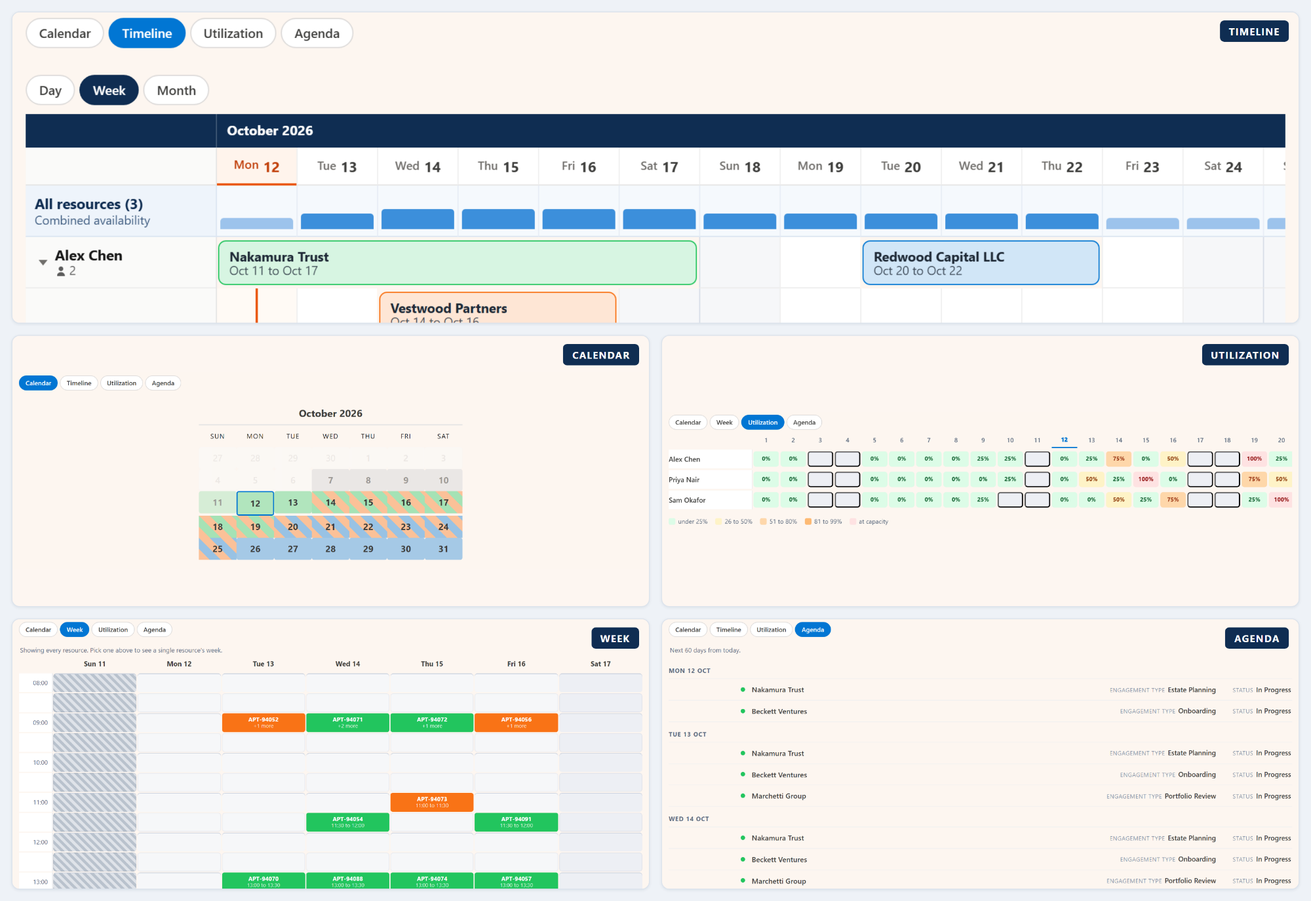
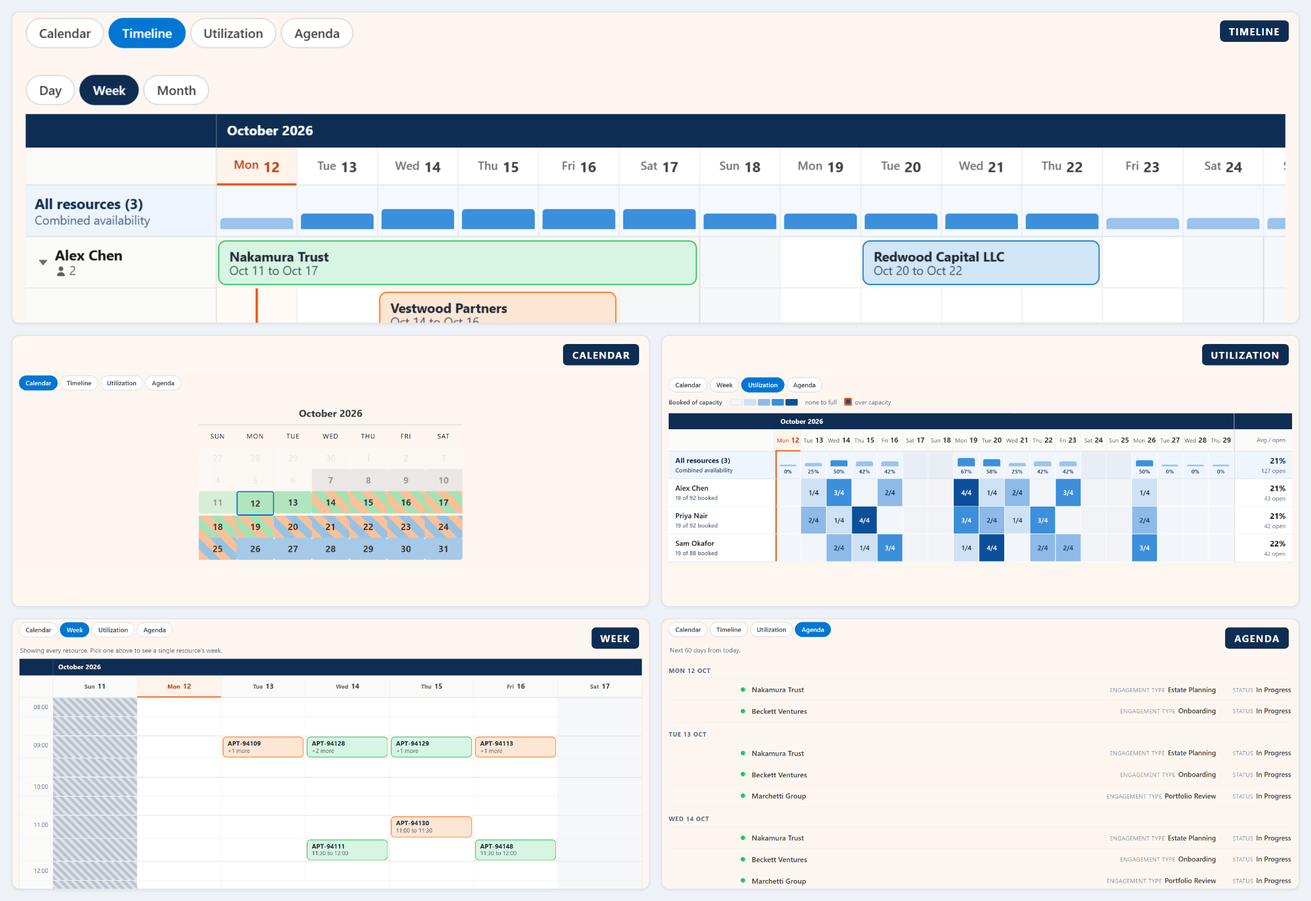
Restyled Week and redesigned Utilization screenshots; image SEO on every page
- New captures from the ACME demo: salesforce-week-view.png and
  salesforce-utilization-heatmap.png replace the old week/utilization images everywhere
- Five-view collage rebuilt with the new Week and Utilization
- Every content image now has alt text, width/height, lazy loading below the fold, a
  sitemap image entry under its page and a JSON-LD ImageObject (51 sitemap entries and
  27 ImageObjects added); blog index thumbnails get their post titles as alt text
- Homepage hero loads first (fetchpriority high) instead of lazily

Changed region(s): [[0.0, 0.7025, 0.496, 1.0], [0.496, 0.3971, 0.992, 0.6415]]

diff --git a/blog/index.html b/blog/index.html
@@ -32,6 +32,19 @@
     <meta name="twitter:title" content="The MultiDatePick Blog">
     <meta name="twitter:description" content="Practical notes on scheduling in Salesforce.">
     <meta name="twitter:image" content="https://multidatepick.com/images/twitter-card.png">
+    <script type="application/ld+json">
+    {"@context": "https://schema.org", "@graph": [
+        {"@type": "ImageObject", "contentUrl": "https://multidatepick.com/images/blog/section-508-government.png", "caption": "An Accessible Salesforce Calendar for Government Teams (article cover image)", "creditText": "MultiDatePick", "creator": {"@type": "Organization", "name": "MultiDatePick"}},
+        {"@type": "ImageObject", "contentUrl": "https://multidatepick.com/images/blog/five-calendar-views.png", "caption": "Five Calendar Views, One Salesforce Component (article cover image)", "creditText": "MultiDatePick", "creator": {"@type": "Organization", "name": "MultiDatePick"}},
+        {"@type": "ImageObject", "contentUrl": "https://multidatepick.com/images/blog/why-no-multi-date-calendar.png", "caption": "Why Salesforce Has No Multi-Date Calendar (article cover image)", "creditText": "MultiDatePick", "creator": {"@type": "Organization", "name": "MultiDatePick"}},
+        {"@type": "ImageObject", "contentUrl": "https://multidatepick.com/images/blog/setup-wizard.png", "caption": "Configuring a Salesforce Calendar Without Writing Code (article cover image)", "creditText": "MultiDatePick", "creator": {"@type": "Organization", "name": "MultiDatePick"}},
+        {"@type": "ImageObject", "contentUrl": "https://multidatepick.com/images/blog/vpat-accessibility.png", "caption": "Salesforce VPAT: What Admins Need to Know (article cover image)", "creditText": "MultiDatePick", "creator": {"@type": "Organization", "name": "MultiDatePick"}},
+        {"@type": "ImageObject", "contentUrl": "https://multidatepick.com/images/blog/prevent-double-booking.png", "caption": "Preventing Double-Booking in Salesforce (article cover image)", "creditText": "MultiDatePick", "creator": {"@type": "Organization", "name": "MultiDatePick"}},
+        {"@type": "ImageObject", "contentUrl": "https://multidatepick.com/images/blog/time-slot-picker.png", "caption": "Building a Calendar Time Slot Picker in Salesforce (article cover image)", "creditText": "MultiDatePick", "creator": {"@type": "Organization", "name": "MultiDatePick"}},
+        {"@type": "ImageObject", "contentUrl": "https://multidatepick.com/images/blog/recurring-patterns.png", "caption": "Recurring Date Patterns in Salesforce (article cover image)", "creditText": "MultiDatePick", "creator": {"@type": "Organization", "name": "MultiDatePick"}},
+        {"@type": "ImageObject", "contentUrl": "https://multidatepick.com/images/blog/multi-date-flow.png", "caption": "How to Let Users Pick Multiple Dates in a Salesforce Screen Flow (article cover image)", "creditText": "MultiDatePick", "creator": {"@type": "Organization", "name": "MultiDatePick"}}
+    ]}
+    </script>
 </head>
 <body>
     <!-- ANNOUNCEMENT BANNER -->
@@ -94,7 +107,7 @@
             <div class="container" style="max-width:820px;">
                 <div class="sc-postlist">
                     <div class="sc-post has-thumb">
-                        <a class="sc-thumb" href="/blog/salesforce-section-508-government-calendar.html" aria-hidden="true" tabindex="-1"><img src="/images/blog/section-508-government.png" alt="" loading="lazy" width="200" height="140"></a>
+                        <a class="sc-thumb" href="/blog/salesforce-section-508-government-calendar.html" aria-hidden="true" tabindex="-1"><img src="/images/blog/section-508-government.png" alt="An Accessible Salesforce Calendar for Government Teams (article cover image)" loading="lazy" width="200" height="140"></a>
                         <div>
                             <h2><a href="/blog/salesforce-section-508-government-calendar.html">An Accessible Salesforce Calendar for Government Teams</a></h2>
                             <p class="sc-meta">11 October 2026</p>
@@ -104,7 +117,7 @@
                     </div>
 
                     <div class="sc-post has-thumb">
-                        <a class="sc-thumb" href="/blog/salesforce-calendar-views.html" aria-hidden="true" tabindex="-1"><img src="/images/blog/five-calendar-views.png" alt="" loading="lazy" width="200" height="140"></a>
+                        <a class="sc-thumb" href="/blog/salesforce-calendar-views.html" aria-hidden="true" tabindex="-1"><img src="/images/blog/five-calendar-views.png" alt="Five Calendar Views, One Salesforce Component (article cover image)" loading="lazy" width="200" height="140"></a>
                         <div>
                             <h2><a href="/blog/salesforce-calendar-views.html">Five Calendar Views, One Salesforce Component</a></h2>
                             <p class="sc-meta">21 August 2026</p>
@@ -114,7 +127,7 @@
                     </div>
 
                     <div class="sc-post has-thumb">
-                        <a class="sc-thumb" href="/blog/why-salesforce-has-no-multi-date-calendar.html" aria-hidden="true" tabindex="-1"><img src="/images/blog/why-no-multi-date-calendar.png" alt="" loading="lazy" width="200" height="140"></a>
+                        <a class="sc-thumb" href="/blog/why-salesforce-has-no-multi-date-calendar.html" aria-hidden="true" tabindex="-1"><img src="/images/blog/why-no-multi-date-calendar.png" alt="Why Salesforce Has No Multi-Date Calendar (article cover image)" loading="lazy" width="200" height="140"></a>
                         <div>
                             <h2><a href="/blog/why-salesforce-has-no-multi-date-calendar.html">Why Salesforce Has No Multi-Date Calendar</a></h2>
                             <p class="sc-meta">20 August 2026</p>
@@ -124,7 +137,7 @@
                     </div>
 
                     <div class="sc-post has-thumb">
-                        <a class="sc-thumb" href="/blog/salesforce-calendar-setup-wizard.html" aria-hidden="true" tabindex="-1"><img src="/images/blog/setup-wizard.png" alt="" loading="lazy" width="200" height="140"></a>
+                        <a class="sc-thumb" href="/blog/salesforce-calendar-setup-wizard.html" aria-hidden="true" tabindex="-1"><img src="/images/blog/setup-wizard.png" alt="Configuring a Salesforce Calendar Without Writing Code (article cover image)" loading="lazy" width="200" height="140"></a>
                         <div>
                             <h2><a href="/blog/salesforce-calendar-setup-wizard.html">Configuring a Salesforce Calendar Without Writing Code</a></h2>
                             <p class="sc-meta">19 August 2026</p>
@@ -135,7 +148,7 @@
 
 
                     <div class="sc-post has-thumb">
-                        <a class="sc-thumb" href="/blog/salesforce-vpat-accessibility.html" aria-hidden="true" tabindex="-1"><img src="/images/blog/vpat-accessibility.png" alt="" loading="lazy" width="200" height="140"></a>
+                        <a class="sc-thumb" href="/blog/salesforce-vpat-accessibility.html" aria-hidden="true" tabindex="-1"><img src="/images/blog/vpat-accessibility.png" alt="Salesforce VPAT: What Admins Need to Know (article cover image)" loading="lazy" width="200" height="140"></a>
                         <div>
                             <h2><a href="/blog/salesforce-vpat-accessibility.html">Salesforce VPAT: What Admins Need to Know</a></h2>
                             <p class="sc-meta">12 August 2026</p>
@@ -145,7 +158,7 @@
                     </div>
 
                     <div class="sc-post has-thumb">
-                        <a class="sc-thumb" href="/blog/prevent-double-booking-in-salesforce.html" aria-hidden="true" tabindex="-1"><img src="/images/blog/prevent-double-booking.png" alt="" loading="lazy" width="200" height="140"></a>
+                        <a class="sc-thumb" href="/blog/prevent-double-booking-in-salesforce.html" aria-hidden="true" tabindex="-1"><img src="/images/blog/prevent-double-booking.png" alt="Preventing Double-Booking in Salesforce (article cover image)" loading="lazy" width="200" height="140"></a>
                         <div>
                             <h2><a href="/blog/prevent-double-booking-in-salesforce.html">Preventing Double-Booking in Salesforce</a></h2>
                             <p class="sc-meta">21 July 2026</p>
@@ -155,7 +168,7 @@
                     </div>
 
                     <div class="sc-post has-thumb">
-                        <a class="sc-thumb" href="/blog/salesforce-calendar-time-slot-picker.html" aria-hidden="true" tabindex="-1"><img src="/images/blog/time-slot-picker.png" alt="" loading="lazy" width="200" height="140"></a>
+                        <a class="sc-thumb" href="/blog/salesforce-calendar-time-slot-picker.html" aria-hidden="true" tabindex="-1"><img src="/images/blog/time-slot-picker.png" alt="Building a Calendar Time Slot Picker in Salesforce (article cover image)" loading="lazy" width="200" height="140"></a>
                         <div>
                             <h2><a href="/blog/salesforce-calendar-time-slot-picker.html">Building a Calendar Time Slot Picker in Salesforce</a></h2>
                             <p class="sc-meta">27 June 2026</p>
@@ -165,7 +178,7 @@
                     </div>
 
                     <div class="sc-post has-thumb">
-                        <a class="sc-thumb" href="/blog/recurring-date-patterns-in-salesforce.html" aria-hidden="true" tabindex="-1"><img src="/images/blog/recurring-patterns.png" alt="" loading="lazy" width="200" height="140"></a>
+                        <a class="sc-thumb" href="/blog/recurring-date-patterns-in-salesforce.html" aria-hidden="true" tabindex="-1"><img src="/images/blog/recurring-patterns.png" alt="Recurring Date Patterns in Salesforce (article cover image)" loading="lazy" width="200" height="140"></a>
                         <div>
                             <h2><a href="/blog/recurring-date-patterns-in-salesforce.html">Recurring Date Patterns in Salesforce</a></h2>
                             <p class="sc-meta">4 June 2026</p>
@@ -175,7 +188,7 @@
                     </div>
 
                     <div class="sc-post has-thumb">
-                        <a class="sc-thumb" href="/blog/multiple-dates-in-a-salesforce-screen-flow.html" aria-hidden="true" tabindex="-1"><img src="/images/blog/multi-date-flow.png" alt="" loading="lazy" width="200" height="140"></a>
+                        <a class="sc-thumb" href="/blog/multiple-dates-in-a-salesforce-screen-flow.html" aria-hidden="true" tabindex="-1"><img src="/images/blog/multi-date-flow.png" alt="How to Let Users Pick Multiple Dates in a Salesforce Screen Flow (article cover image)" loading="lazy" width="200" height="140"></a>
                         <div>
                             <h2><a href="/blog/multiple-dates-in-a-salesforce-screen-flow.html">How to Let Users Pick Multiple Dates in a Salesforce Screen Flow</a></h2>
                             <p class="sc-meta">1 May 2026</p>

diff --git a/index.html b/index.html
@@ -155,7 +155,12 @@
                 {"@type": "ImageObject", "contentUrl": "https://multidatepick.com/images/multidatepick-booking-demo.gif", "caption": "Salesforce resource booking demo: selecting a meeting room, picking dates, and reserving time slots with conflict detection", "creditText": "MultiDatePick", "creator": {"@type": "Organization", "name": "MultiDatePick"}},
                 {"@type": "ImageObject", "contentUrl": "https://multidatepick.com/images/multidatepick-wizard-shape-questions.png", "caption": "MultiDatePick Setup Wizard in Salesforce: Walk me through it shape-picker page showing all three yes/no questions with answer cards containing mini data-shape diagrams", "creditText": "MultiDatePick", "creator": {"@type": "Organization", "name": "MultiDatePick"}},
                 {"@type": "ImageObject", "contentUrl": "https://multidatepick.com/images/multidatepick-wizard-live-preview.png", "caption": "MultiDatePick Setup Wizard in Salesforce with the Live Preview pane showing a working calendar below the component-type selector", "creditText": "MultiDatePick", "creator": {"@type": "Organization", "name": "MultiDatePick"}},
-                {"@type": "ImageObject", "contentUrl": "https://multidatepick.com/images/views/salesforce-resource-timeline-view.png", "caption": "MultiDatePick resource timeline on a Salesforce booking: resources down the side, dates across the top, Day, Week and Month zoom, a combined capacity strip, and multi-day bookings drawn as continuous bars that stack into lanes when they overlap", "creditText": "MultiDatePick", "creator": {"@type": "Organization", "name": "MultiDatePick"}}
+                {"@type": "ImageObject", "contentUrl": "https://multidatepick.com/images/views/salesforce-resource-timeline-view.png", "caption": "MultiDatePick resource timeline on a Salesforce booking: resources down the side, dates across the top, Day, Week and Month zoom, a combined capacity strip, and multi-day bookings drawn as continuous bars that stack into lanes when they overlap", "creditText": "MultiDatePick", "creator": {"@type": "Organization", "name": "MultiDatePick"}},
+                {"@type": "ImageObject", "contentUrl": "https://multidatepick.com/images/views/salesforce-week-view.png", "caption": "MultiDatePick week view on Salesforce: days across, hours down, each appointment drawn as a soft status-colored block, closed hours hatched and today marked", "creditText": "MultiDatePick", "creator": {"@type": "Organization", "name": "MultiDatePick"}},
+                {"@type": "ImageObject", "contentUrl": "https://multidatepick.com/images/views/salesforce-utilization-heatmap.png", "caption": "MultiDatePick utilization heatmap on Salesforce: advisors down the side, days across, each day showing booked of capacity on a blue scale, with a combined row and an average and open column", "creditText": "MultiDatePick", "creator": {"@type": "Organization", "name": "MultiDatePick"}},
+                {"@type": "ImageObject", "contentUrl": "https://multidatepick.com/images/marketing/view-agenda-clean.png", "caption": "Salesforce agenda view: rolling chronological list of the next 60 days grouped by date, with time ranges, status labels, and configurable hover fields, optimized for a shift handover or mobile read", "creditText": "MultiDatePick", "creator": {"@type": "Organization", "name": "MultiDatePick"}},
+                {"@type": "ImageObject", "contentUrl": "https://multidatepick.com/images/wizard/smart-field-mapping.png", "caption": "Smart Field Mapping in the MultiDatePick Salesforce Setup Wizard: paste a JSON config and every Object, Date Field, Status Field, and Resource lookup auto-fills into the wizard - no field-by-field typing", "creditText": "MultiDatePick", "creator": {"@type": "Organization", "name": "MultiDatePick"}},
+                {"@type": "ImageObject", "contentUrl": "https://multidatepick.com/images/marketing/view-calendar-clean.png", "caption": "Salesforce calendar view (month grid) with status colors filling each date - Confirmed green, Tentative amber, Pending blue, Cancelled grey", "creditText": "MultiDatePick", "creator": {"@type": "Organization", "name": "MultiDatePick"}}
             ]
         }
         </script>
@@ -178,7 +183,7 @@
                     </div>
                 </div>
                 <div class="hero-image" style="display:flex;justify-content:center;">
-                    <img src="images/salesforce-booking-capacity-calendar.png" alt="MultiDatePick Salesforce booking calendar showing capacity badges, multi-resource time-slot grid, and status filter pills" width="1200" height="630" style="max-width:520px;width:100%;border-radius:12px;box-shadow:0 8px 32px rgba(12,74,110,.15);" loading="lazy" data-zoomable>
+                    <img src="images/salesforce-booking-capacity-calendar.png" alt="MultiDatePick Salesforce booking calendar showing capacity badges, multi-resource time-slot grid, and status filter pills" width="1200" height="630" style="max-width:520px;width:100%;border-radius:12px;box-shadow:0 8px 32px rgba(12,74,110,.15);" fetchpriority="high" data-zoomable>
                 </div>
             </div>
         </section>
@@ -260,7 +265,7 @@
                     <div class="mdp-carousel__viewport">
                         <ol class="mdp-carousel__track">
                             <li class="mdp-carousel__slide is-active">
-                                <img src="images/marketing/all-three-clean.png" alt="All three MultiDatePick Salesforce components - date picker, date+time scheduler, and resource booking - on one Lightning record page" width="1200" height="800" loading="eager" loading="lazy" data-zoomable>
+                                <img src="images/marketing/all-three-clean.png" alt="All three MultiDatePick Salesforce components - date picker, date+time scheduler, and resource booking - on one Lightning record page" width="1200" height="800" loading="lazy" loading="lazy" data-zoomable>
                                 <p class="mdp-carousel__caption"><strong>Three Components, One Suite</strong> - Date, Date Time, and Booking working together on a single record page.</p>
                             </li>
                             <li class="mdp-carousel__slide">
@@ -284,11 +289,11 @@
                                 <p class="mdp-carousel__caption"><strong>Timeline View</strong> - resources down, dates across, multi-day bookings as continuous bars. Zoom between Day, Week and Month, see combined capacity at a glance, and overlapping records stack into lanes so nothing gets dropped.</p>
                             </li>
                             <li class="mdp-carousel__slide">
-                                <img src="images/marketing/view-week-clean.png" alt="Salesforce week view: seven days across the top, hours down the side, booking blocks span their real duration - the answer to who is free Thursday at 2pm without switching pages" width="1100" height="720" loading="lazy" data-zoomable>
+                                <img src="images/views/salesforce-week-view.png" alt="MultiDatePick week view on Salesforce: days across, hours down, each appointment drawn as a soft status-colored block, closed hours hatched and today marked" width="1400" height="1421" loading="lazy" data-zoomable>
                                 <p class="mdp-carousel__caption"><strong>Week View</strong> - seven days across, hours down. Blocks span their real duration and answer "who is free Thursday at 2pm?" without leaving the page.</p>
                             </li>
                             <li class="mdp-carousel__slide">
-                                <img src="images/marketing/view-utilization-clean.png" alt="Salesforce capacity utilization heatmap: resources down the side, dates across, cells shaded green through red to show percent-of-capacity used per day - spot who is over capacity at a glance" width="1100" height="720" loading="lazy" data-zoomable>
+                                <img src="images/views/salesforce-utilization-heatmap.png" alt="MultiDatePick utilization heatmap on Salesforce: advisors down the side, days across, each day showing booked of capacity on a blue scale, with a combined row and an average and open column" width="1400" height="790" loading="lazy" data-zoomable>
                                 <p class="mdp-carousel__caption"><strong>Utilization View</strong> - a heatmap of percentage-of-capacity per resource per day, green through red. Spot the over-booked days and idle resources in one glance.</p>
                             </li>
                             <li class="mdp-carousel__slide">
@@ -486,12 +491,12 @@
                     </div>
                     <div class="view-card fade-in">
                         <div class="view-label">Week</div>
-                        <img src="/images/marketing/view-week-clean.png" alt="Salesforce week view - seven days across, business hours down, booking blocks span their real duration in the grid" width="1106" height="754" loading="lazy" data-zoomable>
+                        <img src="/images/views/salesforce-week-view.png" alt="MultiDatePick week view on Salesforce: days across, hours down, each appointment drawn as a soft status-colored block, closed hours hatched and today marked" width="1400" height="1421" loading="lazy" data-zoomable>
                         <p class="view-summary"><strong>Who is free Thursday at 2pm?</strong> Seven days across, business hours down. Drag across days and down hours at the same time to block out a span.</p>
                     </div>
                     <div class="view-card fade-in">
                         <div class="view-label">Utilization</div>
-                        <img src="/images/marketing/view-utilization-clean.png" alt="Salesforce capacity utilization heatmap - resources down, dates across, cells shaded green through red to show percentage-of-capacity used per day" width="1116" height="666" loading="lazy" data-zoomable>
+                        <img src="/images/views/salesforce-utilization-heatmap.png" alt="MultiDatePick utilization heatmap on Salesforce: advisors down the side, days across, each day showing booked of capacity on a blue scale, with a combined row and an average and open column" width="1400" height="790" loading="lazy" data-zoomable>
                         <p class="view-summary"><strong>Who is over capacity?</strong> A heatmap of percentage-of-capacity used, per resource per day, green through red. Read only by design.</p>
                     </div>
                     <div class="view-card fade-in wide">

diff --git a/blog/salesforce-calendar-views.html b/blog/salesforce-calendar-views.html
@@ -90,7 +90,10 @@
             "@graph": [
                 {"@type": "ImageObject", "contentUrl": "https://multidatepick.com/images/marketing/salesforce-calendar-five-views.png", "caption": "Salesforce bookings in all five MultiDatePick views: a resource timeline with a capacity strip, a status-colored month calendar, a utilization heatmap, a week grid and an agenda list", "creditText": "MultiDatePick", "creator": {"@type": "Organization", "name": "MultiDatePick"}},
                 {"@type": "ImageObject", "contentUrl": "https://multidatepick.com/images/views/salesforce-timeline-capacity-lanes.png", "caption": "Close-up of the MultiDatePick Salesforce timeline: overlapping multi-day bookings stack into lanes under each resource, and a capacity strip shows how full each day is", "creditText": "MultiDatePick", "creator": {"@type": "Organization", "name": "MultiDatePick"}},
-                {"@type": "ImageObject", "contentUrl": "https://multidatepick.com/images/views/salesforce-resource-timeline-view.png", "caption": "MultiDatePick resource timeline on a Salesforce booking: resources down the side, dates across the top, Day, Week and Month zoom, a combined capacity strip, and multi-day bookings drawn as continuous bars that stack into lanes when they overlap", "creditText": "MultiDatePick", "creator": {"@type": "Organization", "name": "MultiDatePick"}}
+                {"@type": "ImageObject", "contentUrl": "https://multidatepick.com/images/views/salesforce-resource-timeline-view.png", "caption": "MultiDatePick resource timeline on a Salesforce booking: resources down the side, dates across the top, Day, Week and Month zoom, a combined capacity strip, and multi-day bookings drawn as continuous bars that stack into lanes when they overlap", "creditText": "MultiDatePick", "creator": {"@type": "Organization", "name": "MultiDatePick"}},
+                {"@type": "ImageObject", "contentUrl": "https://multidatepick.com/images/views/salesforce-week-view.png", "caption": "MultiDatePick week view on Salesforce: days across, hours down, each appointment drawn as a soft status-colored block, closed hours hatched and today marked", "creditText": "MultiDatePick", "creator": {"@type": "Organization", "name": "MultiDatePick"}},
+                {"@type": "ImageObject", "contentUrl": "https://multidatepick.com/images/views/salesforce-utilization-heatmap.png", "caption": "MultiDatePick utilization heatmap on Salesforce: advisors down the side, days across, each day showing booked of capacity on a blue scale, with a combined row and an average and open column", "creditText": "MultiDatePick", "creator": {"@type": "Organization", "name": "MultiDatePick"}},
+                {"@type": "ImageObject", "contentUrl": "https://multidatepick.com/images/views/view-agenda.png", "caption": "Agenda view: chronological list of upcoming bookings grouped by day with status pills", "creditText": "MultiDatePick", "creator": {"@type": "Organization", "name": "MultiDatePick"}}
             ]
         }
         </script>
@@ -178,7 +181,7 @@
                      business hours, several colored appointments at different times, one
                      hatched block showing a closure. -->
                 <figure class="sc-shot">
-                    <img src="/images/views/view-week.png" alt="Week view of MultiDatePick with seven days across the top and hourly time slots down the side" loading="lazy" style="width:100%;max-width:100%;height:auto;border-radius:10px;box-shadow:0 2px 12px rgba(0,0,0,0.08);border:1px solid #E2E8F0;display:block;" width="996" height="796" data-zoomable>
+                    <img src="/images/views/salesforce-week-view.png" alt="MultiDatePick week view on Salesforce: days across, hours down, each appointment drawn as a soft status-colored block, closed hours hatched and today marked" loading="lazy" style="width:100%;max-width:100%;height:auto;border-radius:10px;box-shadow:0 2px 12px rgba(0,0,0,0.08);border:1px solid #E2E8F0;display:block;" width="1400" height="1421" data-zoomable>
                     <figcaption><strong>Week.</strong> Drag across days and down hours in one gesture. Hatched slots are closures.</figcaption>
                 </figure>
 
@@ -186,7 +189,7 @@
                      Utilization with a real gradient across the legend, not one flat band.
                      Needs a capacity field mapped or it shows raw counts. -->
                 <figure class="sc-shot">
-                    <img src="/images/views/view-utilization.png" alt="Utilization heatmap showing percentage of capacity per resource per day" loading="lazy" style="width:100%;max-width:100%;height:auto;border-radius:10px;box-shadow:0 2px 12px rgba(0,0,0,0.08);border:1px solid #E2E8F0;display:block;" width="996" height="757" data-zoomable>
+                    <img src="/images/views/salesforce-utilization-heatmap.png" alt="MultiDatePick utilization heatmap on Salesforce: advisors down the side, days across, each day showing booked of capacity on a blue scale, with a combined row and an average and open column" loading="lazy" style="width:100%;max-width:100%;height:auto;border-radius:10px;box-shadow:0 2px 12px rgba(0,0,0,0.08);border:1px solid #E2E8F0;display:block;" width="1400" height="790" data-zoomable>
                     <figcaption><strong>Utilization.</strong> Click any cell to drop into that resource's week on that date.</figcaption>
                 </figure>
 

diff --git a/salesforce-conference-room-booking-calendar.html b/salesforce-conference-room-booking-calendar.html
@@ -90,7 +90,8 @@
             "@graph": [
                 {"@type": "ImageObject", "contentUrl": "https://multidatepick.com/images/marketing/salesforce-calendar-booking-grid.png", "caption": "Salesforce conference room booking calendar with a room picker, date selection, and time slot grid", "creditText": "MultiDatePick", "creator": {"@type": "Organization", "name": "MultiDatePick"}},
                 {"@type": "ImageObject", "contentUrl": "https://multidatepick.com/images/marketing/salesforce-calendar-capacity.png", "caption": "Salesforce desk hoteling calendar with capacity badges showing how many spaces remain in each slot", "creditText": "MultiDatePick", "creator": {"@type": "Organization", "name": "MultiDatePick"}},
-                {"@type": "ImageObject", "contentUrl": "https://multidatepick.com/images/views/salesforce-resource-timeline-view.png", "caption": "MultiDatePick resource timeline on a Salesforce booking: resources down the side, dates across the top, Day, Week and Month zoom, a combined capacity strip, and multi-day bookings drawn as continuous bars that stack into lanes when they overlap", "creditText": "MultiDatePick", "creator": {"@type": "Organization", "name": "MultiDatePick"}}
+                {"@type": "ImageObject", "contentUrl": "https://multidatepick.com/images/views/salesforce-resource-timeline-view.png", "caption": "MultiDatePick resource timeline on a Salesforce booking: resources down the side, dates across the top, Day, Week and Month zoom, a combined capacity strip, and multi-day bookings drawn as continuous bars that stack into lanes when they overlap", "creditText": "MultiDatePick", "creator": {"@type": "Organization", "name": "MultiDatePick"}},
+                {"@type": "ImageObject", "contentUrl": "https://multidatepick.com/images/views/salesforce-utilization-heatmap.png", "caption": "MultiDatePick utilization heatmap on Salesforce: advisors down the side, days across, each day showing booked of capacity on a blue scale, with a combined row and an average and open column", "creditText": "MultiDatePick", "creator": {"@type": "Organization", "name": "MultiDatePick"}}
             ]
         }
         </script>
@@ -228,7 +229,7 @@
                      with 8 rooms over a fortnight above the utilization heatmap for the same
                      rooms, showing one room at over capacity. -->
                 <img src="/images/views/salesforce-resource-timeline-view.png" alt="Salesforce resource timeline: each resource is a row, dates run across the top, a capacity strip shows how full every day is, and multi-day holds draw as one continuous bar" title="Resource timeline for booking across many resources" loading="lazy" style="width:100%;max-width:100%;height:auto;border-radius:10px;box-shadow:0 2px 12px rgba(0,0,0,0.08);border:1px solid #E2E8F0;display:block;margin-bottom:20px;" width="1400" height="1024" data-zoomable>
-                <img src="/images/views/view-utilization.png" alt="Utilization heatmap across conference rooms showing capacity over a fortnight" loading="lazy" style="width:100%;max-width:100%;height:auto;border-radius:10px;box-shadow:0 2px 12px rgba(0,0,0,0.08);border:1px solid #E2E8F0;display:block;" width="996" height="757">
+                <img src="/images/views/salesforce-utilization-heatmap.png" alt="MultiDatePick utilization heatmap on Salesforce: advisors down the side, days across, each day showing booked of capacity on a blue scale, with a combined row and an average and open column" loading="lazy" style="width:100%;max-width:100%;height:auto;border-radius:10px;box-shadow:0 2px 12px rgba(0,0,0,0.08);border:1px solid #E2E8F0;display:block;" width="1400" height="790">
                 <div class="sc-cta-band">
                     <h2>Room booking, without another tool</h2>
                     <p>Coming to the Salesforce AppExchange in 2026. Tell us where to send the launch note.</p>

diff --git a/salesforce-booking-calendar.html b/salesforce-booking-calendar.html
@@ -142,7 +142,8 @@
             "@context": "https://schema.org",
             "@graph": [
                 {"@type": "ImageObject", "contentUrl": "https://multidatepick.com/images/multidatepick-booking-demo.gif", "caption": "Salesforce resource booking demo: selecting a meeting room, picking dates, and reserving time slots with conflict detection", "creditText": "MultiDatePick", "creator": {"@type": "Organization", "name": "MultiDatePick"}},
-                {"@type": "ImageObject", "contentUrl": "https://multidatepick.com/images/views/salesforce-resource-timeline-view.png", "caption": "MultiDatePick resource timeline on a Salesforce booking: resources down the side, dates across the top, Day, Week and Month zoom, a combined capacity strip, and multi-day bookings drawn as continuous bars that stack into lanes when they overlap", "creditText": "MultiDatePick", "creator": {"@type": "Organization", "name": "MultiDatePick"}}
+                {"@type": "ImageObject", "contentUrl": "https://multidatepick.com/images/views/salesforce-resource-timeline-view.png", "caption": "MultiDatePick resource timeline on a Salesforce booking: resources down the side, dates across the top, Day, Week and Month zoom, a combined capacity strip, and multi-day bookings drawn as continuous bars that stack into lanes when they overlap", "creditText": "MultiDatePick", "creator": {"@type": "Organization", "name": "MultiDatePick"}},
+                {"@type": "ImageObject", "contentUrl": "https://multidatepick.com/images/views/salesforce-utilization-heatmap.png", "caption": "MultiDatePick utilization heatmap on Salesforce: advisors down the side, days across, each day showing booked of capacity on a blue scale, with a combined row and an average and open column", "creditText": "MultiDatePick", "creator": {"@type": "Organization", "name": "MultiDatePick"}}
             ]
         }
         </script>
@@ -228,7 +229,7 @@
                 <!-- PLACEHOLDER IMAGE: booking-utilization-heatmap.png (1400x700) - the
                      utilization view showing percentage-of-capacity per resource per day with
                      at least one over-capacity cell. -->
-                <img src="/images/views/view-utilization.png" alt="Utilization heatmap showing percentage of capacity per resource per day" loading="lazy" style="width:100%;max-width:100%;height:auto;border-radius:10px;box-shadow:0 2px 12px rgba(0,0,0,0.08);border:1px solid #E2E8F0;display:block;" width="996" height="757">
+                <img src="/images/views/salesforce-utilization-heatmap.png" alt="MultiDatePick utilization heatmap on Salesforce: advisors down the side, days across, each day showing booked of capacity on a blue scale, with a combined row and an average and open column" loading="lazy" style="width:100%;max-width:100%;height:auto;border-radius:10px;box-shadow:0 2px 12px rgba(0,0,0,0.08);border:1px solid #E2E8F0;display:block;" width="1400" height="790">
                 <h2 id="object-mapping" style="margin-top:32px;margin-bottom:4px;color:var(--blue-900);">Object &amp; Field Mapping</h2>
                 <p style="color:var(--gray-500);font-size:.9rem;margin-bottom:0;">When configuring this component on a Lightning Page or via the Setup Wizard, these are the object and field API names you'll need to provide.</p>
                 <div class="diagram-wrap">

diff --git a/blog/salesforce-calendar-setup-wizard.html b/blog/salesforce-calendar-setup-wizard.html
@@ -93,7 +93,10 @@
                 {"@type": "ImageObject", "contentUrl": "https://multidatepick.com/images/marketing/setup-wizard-clean.png", "caption": "MultiDatePick Setup Wizard in Salesforce: the three path cards, Walk me through it, Configure all properties, and Existing Configurations", "creditText": "MultiDatePick", "creator": {"@type": "Organization", "name": "MultiDatePick"}},
                 {"@type": "ImageObject", "contentUrl": "https://multidatepick.com/images/multidatepick-wizard-shape-questions.png", "caption": "MultiDatePick Setup Wizard in Salesforce: the shape-pick question page with time, resource and range questions and mini data-shape diagrams on each answer", "creditText": "MultiDatePick", "creator": {"@type": "Organization", "name": "MultiDatePick"}},
                 {"@type": "ImageObject", "contentUrl": "https://multidatepick.com/images/marketing/live-preview-clean.png", "caption": "MultiDatePick Setup Wizard in Salesforce with the Live Preview pane showing a working Salesforce calendar below the component-type selector", "creditText": "MultiDatePick", "creator": {"@type": "Organization", "name": "MultiDatePick"}},
-                {"@type": "ImageObject", "contentUrl": "https://multidatepick.com/images/marketing/wizard-import-clean.png", "caption": "MultiDatePick Setup Wizard in Salesforce: Import / Export tab with a configuration JSON paste box and the export section", "creditText": "MultiDatePick", "creator": {"@type": "Organization", "name": "MultiDatePick"}}
+                {"@type": "ImageObject", "contentUrl": "https://multidatepick.com/images/marketing/wizard-import-clean.png", "caption": "MultiDatePick Setup Wizard in Salesforce: Import / Export tab with a configuration JSON paste box and the export section", "creditText": "MultiDatePick", "creator": {"@type": "Organization", "name": "MultiDatePick"}},
+                {"@type": "ImageObject", "contentUrl": "https://multidatepick.com/images/wizard/06-wizard-step3-time-fields.png", "caption": "MultiDatePick Setup Wizard in Salesforce: Time Fields tab with start-time, end-time, interval, business-hours and time-display-mode configured for a Booking component", "creditText": "MultiDatePick", "creator": {"@type": "Organization", "name": "MultiDatePick"}},
+                {"@type": "ImageObject", "contentUrl": "https://multidatepick.com/images/wizard/07-wizard-step4-status-display.png", "caption": "MultiDatePick Setup Wizard in Salesforce: Status and Display tab with status field, status colors, hover fields and edit mode configured", "creditText": "MultiDatePick", "creator": {"@type": "Organization", "name": "MultiDatePick"}},
+                {"@type": "ImageObject", "contentUrl": "https://multidatepick.com/images/wizard/smart-field-mapping.png", "caption": "MultiDatePick Setup Wizard in Salesforce: Smart Field Mapping table showing imported field references with green check marks for resolved ones and dropdowns for unresolved ones so an admin can pick the equivalent field on their org's object", "creditText": "MultiDatePick", "creator": {"@type": "Organization", "name": "MultiDatePick"}}
             ]
         }
         </script>

diff --git a/salesforce-calendar-interview-scheduling.html b/salesforce-calendar-interview-scheduling.html
@@ -89,7 +89,8 @@
             "@context": "https://schema.org",
             "@graph": [
                 {"@type": "ImageObject", "contentUrl": "https://multidatepick.com/images/marketing/salesforce-calendar-time-slots.png", "caption": "Salesforce calendar interview scheduling with a time slot grid showing available and booked slots", "creditText": "MultiDatePick", "creator": {"@type": "Organization", "name": "MultiDatePick"}},
-                {"@type": "ImageObject", "contentUrl": "https://multidatepick.com/images/marketing/salesforce-calendar-capacity.png", "caption": "Salesforce interview calendar showing capacity badges and conflict detection on each time slot", "creditText": "MultiDatePick", "creator": {"@type": "Organization", "name": "MultiDatePick"}}
+                {"@type": "ImageObject", "contentUrl": "https://multidatepick.com/images/marketing/salesforce-calendar-capacity.png", "caption": "Salesforce interview calendar showing capacity badges and conflict detection on each time slot", "creditText": "MultiDatePick", "creator": {"@type": "Organization", "name": "MultiDatePick"}},
+                {"@type": "ImageObject", "contentUrl": "https://multidatepick.com/images/views/salesforce-week-view.png", "caption": "MultiDatePick week view on Salesforce: days across, hours down, each appointment drawn as a soft status-colored block, closed hours hatched and today marked", "creditText": "MultiDatePick", "creator": {"@type": "Organization", "name": "MultiDatePick"}}
             ]
         }
         </script>
@@ -228,7 +229,7 @@
                 <!-- PLACEHOLDER IMAGE: interview-week-grid.png (1400x800) - the week view with a
                      panel day blocked out across two days, several interview blocks of differing
                      durations, and the round shown as a second status. -->
-                <img src="/images/views/view-week.png" alt="Week grid with a panel day of interviews blocked out" loading="lazy" style="width:100%;max-width:100%;height:auto;border-radius:10px;box-shadow:0 2px 12px rgba(0,0,0,0.08);border:1px solid #E2E8F0;display:block;" width="996" height="796">
+                <img src="/images/views/salesforce-week-view.png" alt="MultiDatePick week view on Salesforce: days across, hours down, each appointment drawn as a soft status-colored block, closed hours hatched and today marked" loading="lazy" style="width:100%;max-width:100%;height:auto;border-radius:10px;box-shadow:0 2px 12px rgba(0,0,0,0.08);border:1px solid #E2E8F0;display:block;" width="1400" height="1421">
                 <div class="sc-cta-band">
                     <h2>Stop scheduling interviews in your inbox</h2>
                     <p>Coming to the Salesforce AppExchange in 2026. Tell us where to send the launch note.</p>

diff --git a/multidatepickdatetime.html b/multidatepickdatetime.html
@@ -143,7 +143,8 @@
         {
             "@context": "https://schema.org",
             "@graph": [
-                {"@type": "ImageObject", "contentUrl": "https://multidatepick.com/images/multidatepick-datetime-scheduling-demo.gif", "caption": "Salesforce date and time picker demo: selecting calendar dates plus 30-minute time slots for appointment scheduling", "creditText": "MultiDatePick", "creator": {"@type": "Organization", "name": "MultiDatePick"}}
+                {"@type": "ImageObject", "contentUrl": "https://multidatepick.com/images/multidatepick-datetime-scheduling-demo.gif", "caption": "Salesforce date and time picker demo: selecting calendar dates plus 30-minute time slots for appointment scheduling", "creditText": "MultiDatePick", "creator": {"@type": "Organization", "name": "MultiDatePick"}},
+                {"@type": "ImageObject", "contentUrl": "https://multidatepick.com/images/views/salesforce-week-view.png", "caption": "MultiDatePick week view on Salesforce: days across, hours down, each appointment drawn as a soft status-colored block, closed hours hatched and today marked", "creditText": "MultiDatePick", "creator": {"@type": "Organization", "name": "MultiDatePick"}}
             ]
         }
         </script>
@@ -221,7 +222,7 @@
                 <!-- PLACEHOLDER IMAGE: datetime-week-grid.png (1400x800) - the DateTime component
                      in week view, business hours 08:00-18:00, several bookings of differing
                      durations drawn as blocks with a drag selection in progress across two days. -->
-                <img src="/images/views/view-week.png" alt="Week grid with bookings drawn as blocks the height of their duration" loading="lazy" style="width:100%;max-width:100%;height:auto;border-radius:10px;box-shadow:0 2px 12px rgba(0,0,0,0.08);border:1px solid #E2E8F0;display:block;" width="996" height="796">
+                <img src="/images/views/salesforce-week-view.png" alt="MultiDatePick week view on Salesforce: days across, hours down, each appointment drawn as a soft status-colored block, closed hours hatched and today marked" loading="lazy" style="width:100%;max-width:100%;height:auto;border-radius:10px;box-shadow:0 2px 12px rgba(0,0,0,0.08);border:1px solid #E2E8F0;display:block;" width="1400" height="1421">
                 <h2 id="object-mapping" style="margin-top:32px;margin-bottom:4px;color:var(--blue-900);">Object &amp; Field Mapping</h2>
                 <p style="color:var(--gray-500);font-size:.9rem;margin-bottom:0;">When configuring this component on a Lightning Page or via the Setup Wizard, these are the object and field API names you'll need to provide.</p>
                 <div class="diagram-wrap">

diff --git a/multidatepickdates.html b/multidatepickdates.html
@@ -137,7 +137,8 @@
         {
             "@context": "https://schema.org",
             "@graph": [
-                {"@type": "ImageObject", "contentUrl": "https://multidatepick.com/images/multidatepick-date-picker-demo.gif", "caption": "Salesforce multi-date picker demo: selecting multiple dates and a date range on the MultiDatePick calendar component", "creditText": "MultiDatePick", "creator": {"@type": "Organization", "name": "MultiDatePick"}}
+                {"@type": "ImageObject", "contentUrl": "https://multidatepick.com/images/multidatepick-date-picker-demo.gif", "caption": "Salesforce multi-date picker demo: selecting multiple dates and a date range on the MultiDatePick calendar component", "creditText": "MultiDatePick", "creator": {"@type": "Organization", "name": "MultiDatePick"}},
+                {"@type": "ImageObject", "contentUrl": "https://multidatepick.com/images/views/view-timeline-dates.png", "caption": "Timeline view showing date-range records drawn as continuous bars", "creditText": "MultiDatePick", "creator": {"@type": "Organization", "name": "MultiDatePick"}}
             ]
         }
         </script>

diff --git a/salesforce-calendar-experience-cloud-booking.html b/salesforce-calendar-experience-cloud-booking.html
@@ -88,7 +88,8 @@
         {
             "@context": "https://schema.org",
             "@graph": [
-                {"@type": "ImageObject", "contentUrl": "https://multidatepick.com/images/marketing/salesforce-calendar-booking-grid.png", "caption": "Salesforce Experience Cloud site showing a self-service booking calendar with available time slots", "creditText": "MultiDatePick", "creator": {"@type": "Organization", "name": "MultiDatePick"}}
+                {"@type": "ImageObject", "contentUrl": "https://multidatepick.com/images/marketing/salesforce-calendar-booking-grid.png", "caption": "Salesforce Experience Cloud site showing a self-service booking calendar with available time slots", "creditText": "MultiDatePick", "creator": {"@type": "Organization", "name": "MultiDatePick"}},
+                {"@type": "ImageObject", "contentUrl": "https://multidatepick.com/images/views/view-agenda.png", "caption": "Agenda list view of upcoming bookings on a public Experience Cloud site", "creditText": "MultiDatePick", "creator": {"@type": "Organization", "name": "MultiDatePick"}}
             ]
         }
         </script>

diff --git a/configlibrary.html b/configlibrary.html
@@ -265,6 +265,11 @@
             .connector-label { writing-mode:horizontal-tb; }
         }
     </style>
+    <script type="application/ld+json">
+    {"@context": "https://schema.org", "@graph": [
+        {"@type": "ImageObject", "contentUrl": "https://multidatepick.com/images/marketing/salesforce-calendar-five-views.png", "caption": "MultiDatePick showing Salesforce bookings in all five views: resource timeline, month calendar, utilization heatmap, week grid and agenda list", "creditText": "MultiDatePick", "creator": {"@type": "Organization", "name": "MultiDatePick"}}
+    ]}
+    </script>
 </head>
 <body>
     <div class="announcement-banner" id="announcementBanner">
